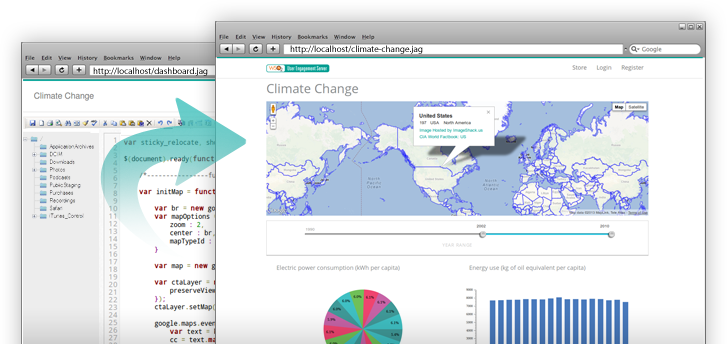
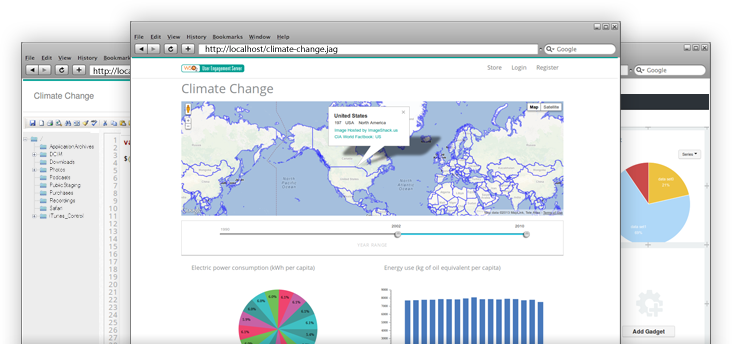
revamping homepage

diff --git a/modules/apps/portal/themes/portal/css/portal-homepage.css b/modules/apps/portal/themes/portal/css/portal-homepage.css
@@ -1,10 +1,10 @@
 @media (max-width: 979px) {
-    #feature-1-pollution, #feature-1-populations { 
+    #feature-pollution, #feature-populations { 
         width:250px;
     }
 }
 
-#feature-1-pollution {
+#feature-pollution {
     left:100px;
     position:absolute;
     bottom:20px;
@@ -22,7 +22,7 @@
 }
 
 
-#feature-1-populations {
+#feature-populations {
     right:0;
     position:absolute;
     bottom:40px;
@@ -42,7 +42,7 @@
 
 
 
-#feature-1-slider {
+#feature-slider {
     right:200px;
     position:absolute;
     background:none repeat scroll 0 0 #FFFFFF;
@@ -60,12 +60,12 @@
 }
 
 
-#feature-2-store {
+#feature-store {
     opacity:1;
 }
 
 
-#feature-3-responsive {
+#feature-responsive {
     right:0;
     position:absolute;
     top:20px;
@@ -76,13 +76,16 @@
     line-height:24px;
 
 }
+.feature-desc > h2, .feature-desc >  p{
+    padding: 0 30px;
+}
 
 
 .hero-cont {
     padding:0;
 }
 .hero-screens {
-    margin-top:42px;
+    margin-top:46px;
     text-align:right;
 }
 
@@ -96,6 +99,8 @@
     color:#ffffff;
     text-align:left;
     margin-bottom:48px;
+    margin-top:24px;
+    
 }
     .hero-unit .btn-try-samples {
         padding:6px;
@@ -116,12 +121,14 @@
     .hero-unit h1 {
         font-size:36px;
         margin-top:32px;
+         text-shadow: 0 1px 1px rgba(0, 0, 0, 0.3);
     }
     .hero-unit p {
         font-size:0.86em;
         font-style:italic;
-        line-height:normal;
+        line-height:22px;
         margin-top:29px;
+        text-shadow: 0 1px 1px rgba(0, 0, 0, 0.3);
     }
         .hero-unit p a {
             color:#FFFFFF;
@@ -133,14 +140,19 @@
 }
 .scrollblock {
     position:relative;
-    margin:0;
     left:0;
     right:0;
-    height:380px;
+    height:342px;
     overflow:hidden;
+}
+.scrollblock > div{
+    margin-top:36px;
 }
 .scrollblock3 {
     height:300px;
+}
+.scrollblock-gadgets{
+    height:360px;
 }
 /*
 .separator {
@@ -219,8 +231,32 @@ background-image: url("../img/separator-line.png");
 .gadget{
     height:100%;
 }
+.row-features > .span12, .row-footer > .span12{
+    background:#FFFFFF !important;
+}
+.row-features > .span12 > .row{
+    border-bottom:1px solid #ECF0F1;
+}
+.row-features > .span12 > .row > .span6{
+    margin-top:20px;
+}
+.row-features >  .span12 > .row {
+    overflow:hidden;
+}
+.feature-desc > h2{
+    margin-top:50px;
+}
+.row-footer{
+    background:none !important;
+    padding:0;
+    border:none !important;
+    
+}
+.row-footer div{
+    padding:5px 0;
+}
 @media (max-width: 480px) {
-    #feature-1-slider  
+    #feature-slider  
         left:0;
     right:0;
     margin:0 auto;

diff --git a/modules/apps/portal/themes/portal/js/intro.js b/modules/apps/portal/themes/portal/js/intro.js
@@ -32,21 +32,23 @@ $(document).ready(function() {
 		scrollorama = scrollorama || $.scrollorama({
 			blocks : '.scrollblock'
 		});
-
-		scrollorama.animate('#feature-2-store', {
-			delay : 100,
-			duration : 200,
-			property : 'opacity',
-			start : 0,
-			end : 1
-		});
-		scrollorama.animate('#feature-2-store', {
+		/*
+		scrollorama.animate('#feature-dashboard', {
 			delay : 100,
 			duration : 200,
 			property : 'top',
 			start : -400,
-			end : 20
+			end : 0
 		});
+		
+		scrollorama.animate('#feature-jaggery', {
+			delay : 100,
+			duration : 200,
+			property : 'top',
+			start : -400,
+			end : 0
+		});
+		*/
 	}
 	
 	
